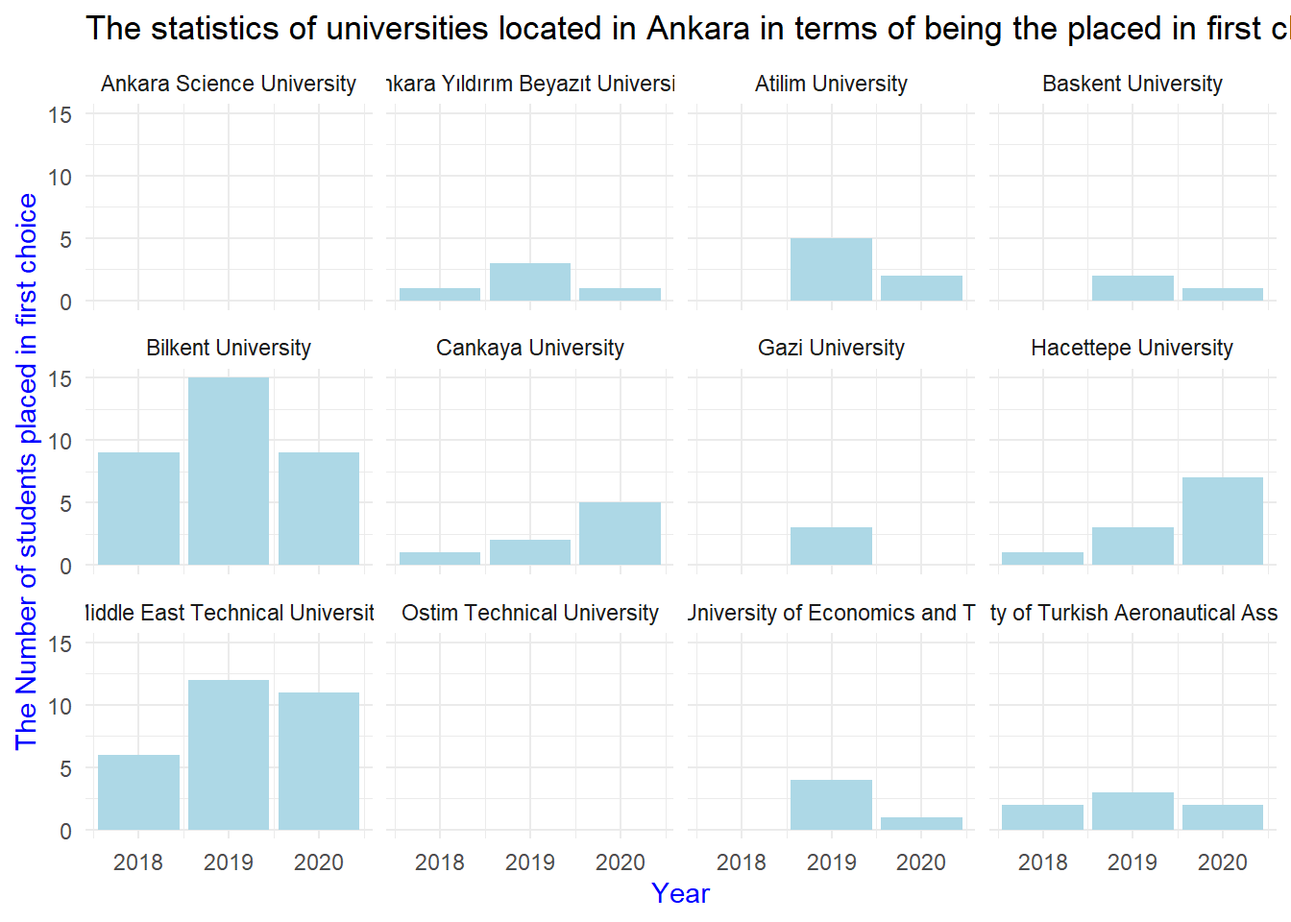
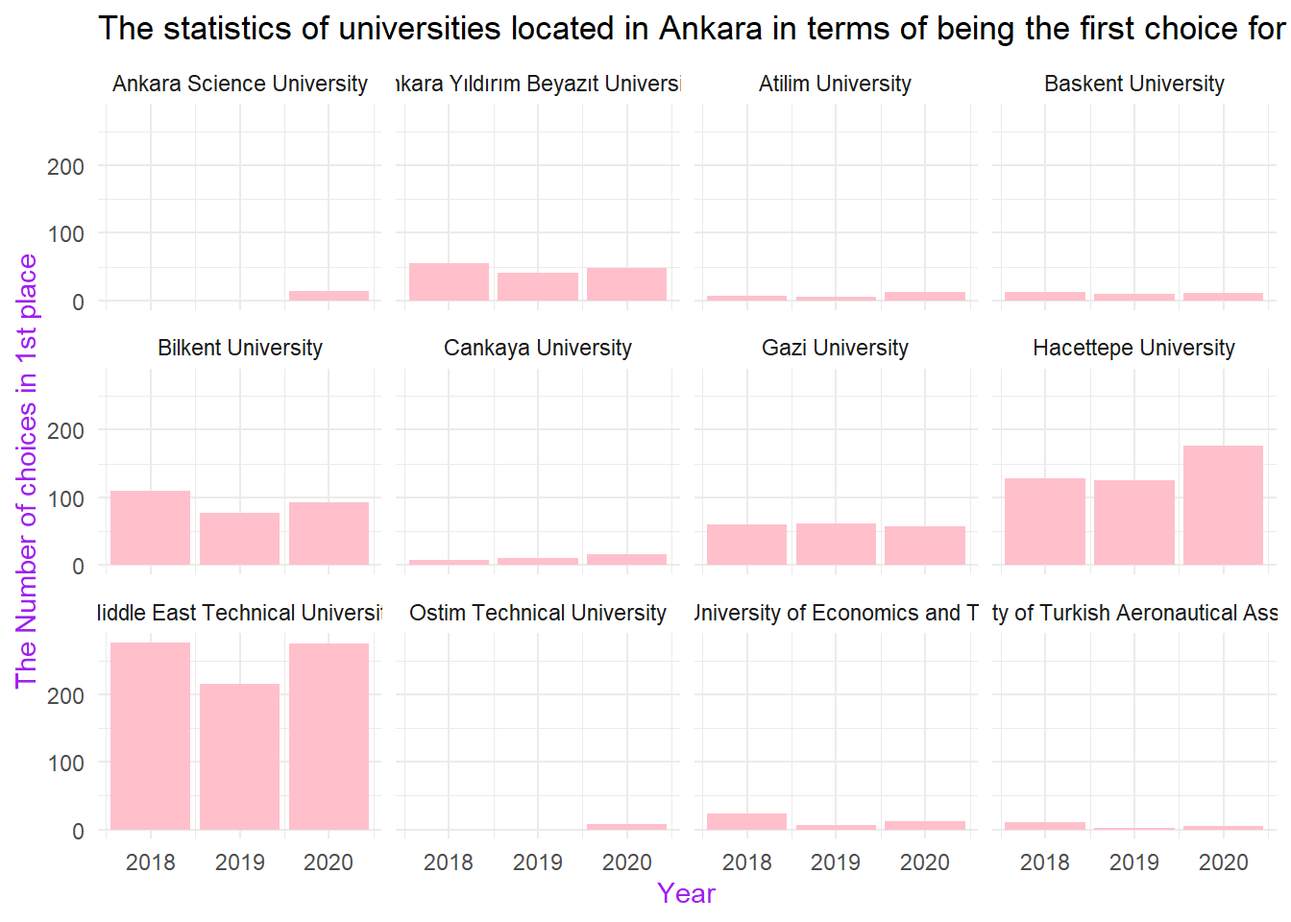
suu

diff --git a/docs/analysis.html b/docs/analysis.html
@@ -180,14 +180,33 @@ pre > code.sourceCode > span > a:first-child::before { text-decoration: underlin
 <pre><code>Warning: package 'ggplot2' was built under R version 4.3.2</code></pre>
 </div>
 <div class="cell-output cell-output-stderr">
+<pre><code>Warning: package 'tidyverse' was built under R version 4.3.2</code></pre>
+</div>
+<div class="cell-output cell-output-stderr">
+<pre><code>Warning: package 'readr' was built under R version 4.3.2</code></pre>
+</div>
+<div class="cell-output cell-output-stderr">
+<pre><code>Warning: package 'stringr' was built under R version 4.3.2</code></pre>
+</div>
+<div class="cell-output cell-output-stderr">
+<pre><code>── Attaching core tidyverse packages ──────────────────────── tidyverse 2.0.0 ──
+✔ forcats   1.0.0     ✔ stringr   1.5.1
+✔ lubridate 1.9.3     ✔ tibble    3.2.1
+✔ purrr     1.0.2     ✔ tidyr     1.3.0
+✔ readr     2.1.4     
+── Conflicts ────────────────────────────────────────── tidyverse_conflicts() ──
+✖ dplyr::filter() masks stats::filter()
+✖ dplyr::lag()    masks stats::lag()
+ℹ Use the conflicted package (&lt;http://conflicted.r-lib.org/&gt;) to force all conflicts to become errors</code></pre>
+</div>
+<div class="cell-output cell-output-stderr">
 <pre><code>Warning: package 'gridExtra' was built under R version 4.3.2</code></pre>
 </div>
 <div class="cell-output cell-output-stderr">
 <pre><code>
-Attaching package: 'gridExtra'</code></pre>
-</div>
-<div class="cell-output cell-output-stderr">
-<pre><code>The following object is masked from 'package:dplyr':
+Attaching package: 'gridExtra'
+
+The following object is masked from 'package:dplyr':
 
     combine</code></pre>
 </div>
@@ -195,117 +214,144 @@ Attaching package: 'gridExtra'</code></pre>
 <div class="cell">
 <details>
 <summary>Show the code</summary>
-<div class="sourceCode cell-code" id="cb7"><pre class="sourceCode r code-with-copy"><code class="sourceCode r"><span id="cb7-1"><a href="#cb7-1" aria-hidden="true" tabindex="-1"></a><span class="co"># The statistics of universities located in Ankara in terms of being the placed in 1st choice for students</span></span>
-<span id="cb7-2"><a href="#cb7-2" aria-hidden="true" tabindex="-1"></a></span>
-<span id="cb7-3"><a href="#cb7-3" aria-hidden="true" tabindex="-1"></a>plot_2 <span class="ot">&lt;-</span> <span class="fu">ggplot</span>(our_data, <span class="fu">aes</span>(<span class="at">x =</span> Year, <span class="at">y =</span> placed_1st)) <span class="sc">+</span> </span>
-<span id="cb7-4"><a href="#cb7-4" aria-hidden="true" tabindex="-1"></a>  <span class="fu">geom_col</span>(<span class="at">fill=</span><span class="st">"lightblue"</span>) <span class="sc">+</span></span>
-<span id="cb7-5"><a href="#cb7-5" aria-hidden="true" tabindex="-1"></a> <span class="fu">labs</span>(<span class="at">x =</span> <span class="st">"Year"</span>,<span class="at">y =</span> <span class="st">"The Number of students placed in first choice"</span>)<span class="sc">+</span></span>
-<span id="cb7-6"><a href="#cb7-6" aria-hidden="true" tabindex="-1"></a>  <span class="fu">ggtitle</span>(<span class="st">"The statistics of universities located in Ankara in terms of being the placed in first choice for students"</span>) <span class="sc">+</span></span>
-<span id="cb7-7"><a href="#cb7-7" aria-hidden="true" tabindex="-1"></a>  <span class="fu">theme_minimal</span>() <span class="sc">+</span></span>
-<span id="cb7-8"><a href="#cb7-8" aria-hidden="true" tabindex="-1"></a>  <span class="fu">theme</span>(<span class="at">axis.title =</span> <span class="fu">element_text</span>(<span class="at">color =</span> <span class="st">"blue"</span>))<span class="sc">+</span></span>
-<span id="cb7-9"><a href="#cb7-9" aria-hidden="true" tabindex="-1"></a>  <span class="fu">facet_wrap</span>(.<span class="sc">~</span> University)</span>
-<span id="cb7-10"><a href="#cb7-10" aria-hidden="true" tabindex="-1"></a><span class="fu">print</span>(plot_2)</span></code><button title="Copy to Clipboard" class="code-copy-button"><i class="bi"></i></button></pre></div>
+<div class="sourceCode cell-code" id="cb10"><pre class="sourceCode r code-with-copy"><code class="sourceCode r"><span id="cb10-1"><a href="#cb10-1" aria-hidden="true" tabindex="-1"></a><span class="co"># The statistics of universities located in Ankara in terms of being the first choice for  students</span></span>
+<span id="cb10-2"><a href="#cb10-2" aria-hidden="true" tabindex="-1"></a>plot_1 <span class="ot">&lt;-</span> <span class="fu">ggplot</span>(our_data, <span class="fu">aes</span>(<span class="at">x =</span> Year, <span class="at">y =</span> choice_1st)) <span class="sc">+</span></span>
+<span id="cb10-3"><a href="#cb10-3" aria-hidden="true" tabindex="-1"></a>  <span class="fu">geom_col</span>(<span class="at">fill=</span><span class="st">"pink"</span>)<span class="sc">+</span></span>
+<span id="cb10-4"><a href="#cb10-4" aria-hidden="true" tabindex="-1"></a>  <span class="fu">labs</span>(<span class="at">x =</span> <span class="st">"Year"</span>,<span class="at">y =</span> <span class="st">"The Number of choices in 1st place"</span>)<span class="sc">+</span></span>
+<span id="cb10-5"><a href="#cb10-5" aria-hidden="true" tabindex="-1"></a>  <span class="fu">ggtitle</span>(<span class="st">"The statistics of universities located in Ankara in terms of being the first choice for students"</span>) <span class="sc">+</span></span>
+<span id="cb10-6"><a href="#cb10-6" aria-hidden="true" tabindex="-1"></a>  <span class="fu">theme_minimal</span>() <span class="sc">+</span></span>
+<span id="cb10-7"><a href="#cb10-7" aria-hidden="true" tabindex="-1"></a>  <span class="fu">theme</span>(<span class="at">axis.title =</span> <span class="fu">element_text</span>(<span class="at">color =</span> <span class="st">"purple"</span>))<span class="sc">+</span></span>
+<span id="cb10-8"><a href="#cb10-8" aria-hidden="true" tabindex="-1"></a>  <span class="fu">facet_wrap</span>(.<span class="sc">~</span> University)</span>
+<span id="cb10-9"><a href="#cb10-9" aria-hidden="true" tabindex="-1"></a><span class="fu">print</span>(plot_1)</span></code><button title="Copy to Clipboard" class="code-copy-button"><i class="bi"></i></button></pre></div>
 </details>
 <div class="cell-output-display">
 <p><img src="analysis_files/figure-html/unnamed-chunk-2-1.png" class="img-fluid" width="672"></p>
 </div>
 </div>
 <div class="cell">
-<div class="sourceCode cell-code" id="cb8"><pre class="sourceCode r code-with-copy"><code class="sourceCode r"><span id="cb8-1"><a href="#cb8-1" aria-hidden="true" tabindex="-1"></a><span class="co">#| code-fold: true</span></span>
-<span id="cb8-2"><a href="#cb8-2" aria-hidden="true" tabindex="-1"></a><span class="co">#| code-summary: "Show the code"</span></span>
-<span id="cb8-3"><a href="#cb8-3" aria-hidden="true" tabindex="-1"></a></span>
-<span id="cb8-4"><a href="#cb8-4" aria-hidden="true" tabindex="-1"></a><span class="co"># The statistics of universities located in Ankara in terms of being the placed in 1st choice for students</span></span>
-<span id="cb8-5"><a href="#cb8-5" aria-hidden="true" tabindex="-1"></a>plot_2 <span class="ot">&lt;-</span> <span class="fu">ggplot</span>(our_data, <span class="fu">aes</span>(<span class="at">x =</span> Year, <span class="at">y =</span> placed_1st)) <span class="sc">+</span> </span>
-<span id="cb8-6"><a href="#cb8-6" aria-hidden="true" tabindex="-1"></a>  <span class="fu">geom_col</span>(<span class="at">fill=</span><span class="st">"lightblue"</span>) <span class="sc">+</span></span>
-<span id="cb8-7"><a href="#cb8-7" aria-hidden="true" tabindex="-1"></a> <span class="fu">labs</span>(<span class="at">x =</span> <span class="st">"Year"</span>,<span class="at">y =</span> <span class="st">"The Number of students placed in first choice"</span>)<span class="sc">+</span></span>
-<span id="cb8-8"><a href="#cb8-8" aria-hidden="true" tabindex="-1"></a>  <span class="fu">ggtitle</span>(<span class="st">"The statistics of universities located in Ankara in terms of being the placed in first choice for students"</span>) <span class="sc">+</span></span>
-<span id="cb8-9"><a href="#cb8-9" aria-hidden="true" tabindex="-1"></a>  <span class="fu">theme_minimal</span>() <span class="sc">+</span></span>
-<span id="cb8-10"><a href="#cb8-10" aria-hidden="true" tabindex="-1"></a>  <span class="fu">theme</span>(<span class="at">axis.title =</span> <span class="fu">element_text</span>(<span class="at">color =</span> <span class="st">"blue"</span>))<span class="sc">+</span></span>
-<span id="cb8-11"><a href="#cb8-11" aria-hidden="true" tabindex="-1"></a>  <span class="fu">facet_wrap</span>(.<span class="sc">~</span> University)</span>
-<span id="cb8-12"><a href="#cb8-12" aria-hidden="true" tabindex="-1"></a></span>
-<span id="cb8-13"><a href="#cb8-13" aria-hidden="true" tabindex="-1"></a><span class="fu">print</span>(plot_2)</span></code><button title="Copy to Clipboard" class="code-copy-button"><i class="bi"></i></button></pre></div>
-<div class="cell-output-display">
-<p><img src="analysis_files/figure-html/unnamed-chunk-3-1.png" class="img-fluid" width="672"></p>
+<details>
+<summary>Show the code</summary>
+<div class="sourceCode cell-code" id="cb11"><pre class="sourceCode r code-with-copy"><code class="sourceCode r"><span id="cb11-1"><a href="#cb11-1" aria-hidden="true" tabindex="-1"></a>avg_first_choices <span class="ot">&lt;-</span> our_data <span class="sc">%&gt;%</span> <span class="fu">group_by</span>(University) <span class="sc">%&gt;%</span> </span>
+<span id="cb11-2"><a href="#cb11-2" aria-hidden="true" tabindex="-1"></a>  <span class="fu">summarise</span>(<span class="at">avg_1st_choices =</span> <span class="fu">mean</span>(choice_1st)) <span class="sc">%&gt;%</span></span>
+<span id="cb11-3"><a href="#cb11-3" aria-hidden="true" tabindex="-1"></a>  <span class="fu">arrange</span>(<span class="fu">desc</span>(avg_1st_choices))</span>
+<span id="cb11-4"><a href="#cb11-4" aria-hidden="true" tabindex="-1"></a><span class="fu">print</span>(avg_first_choices)</span></code><button title="Copy to Clipboard" class="code-copy-button"><i class="bi"></i></button></pre></div>
+</details>
+<div class="cell-output cell-output-stdout">
+<pre><code># A tibble: 12 × 2
+   University                                      avg_1st_choices
+   &lt;chr&gt;                                                     &lt;dbl&gt;
+ 1 Middle East Technical University                         256.  
+ 2 Hacettepe University                                     143.  
+ 3 Bilkent University                                        93.3 
+ 4 Gazi University                                           59.3 
+ 5 Ankara Yıldırım Beyazıt University                        48   
+ 6 Ankara Science University                                 14   
+ 7 Tobb Etu University of Economics and Technology           14   
+ 8 Cankaya University                                        11.3 
+ 9 Baskent University                                        11   
+10 Atilim University                                          8.33
+11 Ostim Technical University                                 8   
+12 University of Turkish Aeronautical Association             6.33</code></pre>
 </div>
 </div>
 <div class="cell">
-<details>
-<summary>Show the code</summary>
-<div class="sourceCode cell-code" id="cb9"><pre class="sourceCode r code-with-copy"><code class="sourceCode r"><span id="cb9-1"><a href="#cb9-1" aria-hidden="true" tabindex="-1"></a><span class="co"># Placement rate for students' first choices</span></span>
-<span id="cb9-2"><a href="#cb9-2" aria-hidden="true" tabindex="-1"></a></span>
-<span id="cb9-3"><a href="#cb9-3" aria-hidden="true" tabindex="-1"></a></span>
-<span id="cb9-4"><a href="#cb9-4" aria-hidden="true" tabindex="-1"></a>departments <span class="ot">&lt;-</span> <span class="fu">c</span>(<span class="st">"Industrial Engineering(English)"</span>,<span class="st">"Industrial Engineering (English) (Scholarship)"</span>)</span>
-<span id="cb9-5"><a href="#cb9-5" aria-hidden="true" tabindex="-1"></a>placment_rate_data <span class="ot">&lt;-</span> our_data <span class="sc">%&gt;%</span> <span class="fu">filter</span>(Department <span class="sc">%in%</span> departments) <span class="sc">%&gt;%</span> <span class="fu">mutate</span>(<span class="at">placement_rate =</span> placed_1st<span class="sc">/</span>choice_1st) <span class="sc">%&gt;%</span> <span class="fu">select</span>(Year, University, placement_rate)</span>
-<span id="cb9-6"><a href="#cb9-6" aria-hidden="true" tabindex="-1"></a></span>
-<span id="cb9-7"><a href="#cb9-7" aria-hidden="true" tabindex="-1"></a>plot_3 <span class="ot">&lt;-</span> <span class="fu">ggplot</span>(<span class="fu">na.omit</span>(placment_rate_data), <span class="fu">aes</span>(<span class="at">x =</span> <span class="fu">as.factor</span>(Year), <span class="at">y =</span> placement_rate)) <span class="sc">+</span></span>
-<span id="cb9-8"><a href="#cb9-8" aria-hidden="true" tabindex="-1"></a>  <span class="fu">geom_col</span>(<span class="at">fill=</span><span class="st">"lightgreen"</span>) <span class="sc">+</span></span>
-<span id="cb9-9"><a href="#cb9-9" aria-hidden="true" tabindex="-1"></a>  <span class="fu">labs</span>(<span class="at">x =</span> <span class="st">"Year"</span>,<span class="at">y =</span> <span class="st">"Placement Rate"</span>)<span class="sc">+</span></span>
-<span id="cb9-10"><a href="#cb9-10" aria-hidden="true" tabindex="-1"></a>  <span class="fu">ggtitle</span>(<span class="st">"Placement rate for students' first choices over year"</span>) <span class="sc">+</span></span>
-<span id="cb9-11"><a href="#cb9-11" aria-hidden="true" tabindex="-1"></a>  <span class="fu">theme_minimal</span>() <span class="sc">+</span></span>
-<span id="cb9-12"><a href="#cb9-12" aria-hidden="true" tabindex="-1"></a>  <span class="fu">theme</span>(<span class="at">axis.title =</span> <span class="fu">element_text</span>(<span class="at">color =</span> <span class="st">"green"</span>))<span class="sc">+</span></span>
-<span id="cb9-13"><a href="#cb9-13" aria-hidden="true" tabindex="-1"></a>  <span class="fu">facet_wrap</span>(.<span class="sc">~</span> University)</span>
-<span id="cb9-14"><a href="#cb9-14" aria-hidden="true" tabindex="-1"></a></span>
-<span id="cb9-15"><a href="#cb9-15" aria-hidden="true" tabindex="-1"></a><span class="fu">print</span>(plot_3)</span></code><button title="Copy to Clipboard" class="code-copy-button"><i class="bi"></i></button></pre></div>
-</details>
+<div class="sourceCode cell-code" id="cb13"><pre class="sourceCode r code-with-copy"><code class="sourceCode r"><span id="cb13-1"><a href="#cb13-1" aria-hidden="true" tabindex="-1"></a><span class="co">#| code-fold: true</span></span>
+<span id="cb13-2"><a href="#cb13-2" aria-hidden="true" tabindex="-1"></a><span class="co">#| code-summary: "Show the code"</span></span>
+<span id="cb13-3"><a href="#cb13-3" aria-hidden="true" tabindex="-1"></a></span>
+<span id="cb13-4"><a href="#cb13-4" aria-hidden="true" tabindex="-1"></a><span class="co"># The statistics of universities located in Ankara in terms of being the placed in 1st choice for students</span></span>
+<span id="cb13-5"><a href="#cb13-5" aria-hidden="true" tabindex="-1"></a>plot_2 <span class="ot">&lt;-</span> <span class="fu">ggplot</span>(our_data, <span class="fu">aes</span>(<span class="at">x =</span> Year, <span class="at">y =</span> placed_1st)) <span class="sc">+</span> </span>
+<span id="cb13-6"><a href="#cb13-6" aria-hidden="true" tabindex="-1"></a>  <span class="fu">geom_col</span>(<span class="at">fill=</span><span class="st">"lightblue"</span>) <span class="sc">+</span></span>
+<span id="cb13-7"><a href="#cb13-7" aria-hidden="true" tabindex="-1"></a> <span class="fu">labs</span>(<span class="at">x =</span> <span class="st">"Year"</span>,<span class="at">y =</span> <span class="st">"The Number of students placed in first choice"</span>)<span class="sc">+</span></span>
+<span id="cb13-8"><a href="#cb13-8" aria-hidden="true" tabindex="-1"></a>  <span class="fu">ggtitle</span>(<span class="st">"The statistics of universities located in Ankara in terms of being the placed in first choice for students"</span>) <span class="sc">+</span></span>
+<span id="cb13-9"><a href="#cb13-9" aria-hidden="true" tabindex="-1"></a>  <span class="fu">theme_minimal</span>() <span class="sc">+</span></span>
+<span id="cb13-10"><a href="#cb13-10" aria-hidden="true" tabindex="-1"></a>  <span class="fu">theme</span>(<span class="at">axis.title =</span> <span class="fu">element_text</span>(<span class="at">color =</span> <span class="st">"blue"</span>))<span class="sc">+</span></span>
+<span id="cb13-11"><a href="#cb13-11" aria-hidden="true" tabindex="-1"></a>  <span class="fu">facet_wrap</span>(.<span class="sc">~</span> University)</span>
+<span id="cb13-12"><a href="#cb13-12" aria-hidden="true" tabindex="-1"></a></span>
+<span id="cb13-13"><a href="#cb13-13" aria-hidden="true" tabindex="-1"></a><span class="fu">print</span>(plot_2)</span></code><button title="Copy to Clipboard" class="code-copy-button"><i class="bi"></i></button></pre></div>
 <div class="cell-output-display">
 <p><img src="analysis_files/figure-html/unnamed-chunk-4-1.png" class="img-fluid" width="672"></p>
 </div>
 </div>
 <div class="cell">
-<div class="sourceCode cell-code" id="cb10"><pre class="sourceCode r code-with-copy"><code class="sourceCode r"><span id="cb10-1"><a href="#cb10-1" aria-hidden="true" tabindex="-1"></a><span class="co">#| code-fold: true</span></span>
-<span id="cb10-2"><a href="#cb10-2" aria-hidden="true" tabindex="-1"></a><span class="co">#| code-summary: "Show the code"</span></span>
-<span id="cb10-3"><a href="#cb10-3" aria-hidden="true" tabindex="-1"></a></span>
-<span id="cb10-4"><a href="#cb10-4" aria-hidden="true" tabindex="-1"></a><span class="co"># Hacettepe University Industrial Engineering data in 2018</span></span>
-<span id="cb10-5"><a href="#cb10-5" aria-hidden="true" tabindex="-1"></a></span>
-<span id="cb10-6"><a href="#cb10-6" aria-hidden="true" tabindex="-1"></a>hacettepe_data1 <span class="ot">&lt;-</span> our_data <span class="sc">%&gt;%</span> <span class="fu">filter</span>(University <span class="sc">==</span> <span class="st">"Hacettepe University"</span>,Year <span class="sc">==</span> <span class="dv">2018</span>)</span>
-<span id="cb10-7"><a href="#cb10-7" aria-hidden="true" tabindex="-1"></a></span>
-<span id="cb10-8"><a href="#cb10-8" aria-hidden="true" tabindex="-1"></a></span>
-<span id="cb10-9"><a href="#cb10-9" aria-hidden="true" tabindex="-1"></a>df_long1 <span class="ot">&lt;-</span> <span class="fu">pivot_longer</span>(hacettepe_data1, <span class="at">cols =</span> <span class="fu">starts_with</span>(<span class="st">"choice"</span>),</span>
-<span id="cb10-10"><a href="#cb10-10" aria-hidden="true" tabindex="-1"></a>                        <span class="at">names_to =</span> <span class="st">"Choice"</span>, <span class="at">values_to =</span> <span class="st">"Value"</span>)</span>
-<span id="cb10-11"><a href="#cb10-11" aria-hidden="true" tabindex="-1"></a></span>
-<span id="cb10-12"><a href="#cb10-12" aria-hidden="true" tabindex="-1"></a>plot_4 <span class="ot">&lt;-</span> <span class="fu">ggplot</span>(df_long1, <span class="fu">aes</span>(<span class="at">x=</span> Choice, <span class="at">y =</span> Value))<span class="sc">+</span></span>
-<span id="cb10-13"><a href="#cb10-13" aria-hidden="true" tabindex="-1"></a>  <span class="fu">geom_col</span>(<span class="at">fill=</span><span class="st">"pink"</span>)<span class="sc">+</span></span>
-<span id="cb10-14"><a href="#cb10-14" aria-hidden="true" tabindex="-1"></a>  <span class="fu">labs</span>(<span class="at">x =</span> <span class="st">"xnd chocie"</span>,<span class="at">y =</span> <span class="st">"The Number of choices "</span>)<span class="sc">+</span></span>
-<span id="cb10-15"><a href="#cb10-15" aria-hidden="true" tabindex="-1"></a>  <span class="fu">ggtitle</span>(<span class="st">"2018"</span>) <span class="sc">+</span></span>
-<span id="cb10-16"><a href="#cb10-16" aria-hidden="true" tabindex="-1"></a>  <span class="fu">theme_minimal</span>() <span class="sc">+</span></span>
-<span id="cb10-17"><a href="#cb10-17" aria-hidden="true" tabindex="-1"></a>  <span class="fu">theme</span>(<span class="at">axis.title =</span> <span class="fu">element_text</span>(<span class="at">color =</span> <span class="st">"purple"</span>))<span class="sc">+</span></span>
-<span id="cb10-18"><a href="#cb10-18" aria-hidden="true" tabindex="-1"></a>  <span class="fu">theme</span>(<span class="at">axis.text.x =</span> <span class="fu">element_text</span>(<span class="at">angle =</span> <span class="dv">90</span>, <span class="at">hjust =</span> <span class="dv">1</span>))</span>
-<span id="cb10-19"><a href="#cb10-19" aria-hidden="true" tabindex="-1"></a></span>
-<span id="cb10-20"><a href="#cb10-20" aria-hidden="true" tabindex="-1"></a><span class="co"># Hacettepe University Industrial Engineering data in 2019</span></span>
-<span id="cb10-21"><a href="#cb10-21" aria-hidden="true" tabindex="-1"></a></span>
-<span id="cb10-22"><a href="#cb10-22" aria-hidden="true" tabindex="-1"></a>hacettepe_data2 <span class="ot">&lt;-</span> our_data <span class="sc">%&gt;%</span> <span class="fu">filter</span>(University <span class="sc">==</span> <span class="st">"Hacettepe University"</span>,Year <span class="sc">==</span> <span class="dv">2019</span>)</span>
-<span id="cb10-23"><a href="#cb10-23" aria-hidden="true" tabindex="-1"></a></span>
-<span id="cb10-24"><a href="#cb10-24" aria-hidden="true" tabindex="-1"></a>df_long2 <span class="ot">&lt;-</span> <span class="fu">pivot_longer</span>(hacettepe_data2, <span class="at">cols =</span> <span class="fu">starts_with</span>(<span class="st">"choice"</span>),</span>
-<span id="cb10-25"><a href="#cb10-25" aria-hidden="true" tabindex="-1"></a>                        <span class="at">names_to =</span> <span class="st">"Choice"</span>, <span class="at">values_to =</span> <span class="st">"Value"</span>)</span>
-<span id="cb10-26"><a href="#cb10-26" aria-hidden="true" tabindex="-1"></a></span>
-<span id="cb10-27"><a href="#cb10-27" aria-hidden="true" tabindex="-1"></a>plot_5 <span class="ot">&lt;-</span> <span class="fu">ggplot</span>(df_long2, <span class="fu">aes</span>(<span class="at">x=</span> Choice, <span class="at">y =</span> Value))<span class="sc">+</span></span>
-<span id="cb10-28"><a href="#cb10-28" aria-hidden="true" tabindex="-1"></a>   <span class="fu">geom_col</span>(<span class="at">fill=</span><span class="st">"lightblue"</span>)<span class="sc">+</span></span>
-<span id="cb10-29"><a href="#cb10-29" aria-hidden="true" tabindex="-1"></a>  <span class="fu">labs</span>(<span class="at">x =</span> <span class="st">"xnd chocie"</span>,<span class="at">y =</span> <span class="st">"The Number of choices"</span>)<span class="sc">+</span></span>
-<span id="cb10-30"><a href="#cb10-30" aria-hidden="true" tabindex="-1"></a>  <span class="fu">ggtitle</span>(<span class="st">"2019"</span>) <span class="sc">+</span></span>
-<span id="cb10-31"><a href="#cb10-31" aria-hidden="true" tabindex="-1"></a>  <span class="fu">theme_minimal</span>() <span class="sc">+</span></span>
-<span id="cb10-32"><a href="#cb10-32" aria-hidden="true" tabindex="-1"></a>  <span class="fu">theme</span>(<span class="at">axis.title =</span> <span class="fu">element_text</span>(<span class="at">color =</span> <span class="st">"blue"</span>))<span class="sc">+</span></span>
-<span id="cb10-33"><a href="#cb10-33" aria-hidden="true" tabindex="-1"></a>  <span class="fu">theme</span>(<span class="at">axis.text.x =</span> <span class="fu">element_text</span>(<span class="at">angle =</span> <span class="dv">90</span>, <span class="at">hjust =</span> <span class="dv">1</span>))</span>
-<span id="cb10-34"><a href="#cb10-34" aria-hidden="true" tabindex="-1"></a></span>
-<span id="cb10-35"><a href="#cb10-35" aria-hidden="true" tabindex="-1"></a></span>
-<span id="cb10-36"><a href="#cb10-36" aria-hidden="true" tabindex="-1"></a><span class="co"># Hacettepe University Industrial Engineering data in 2020</span></span>
-<span id="cb10-37"><a href="#cb10-37" aria-hidden="true" tabindex="-1"></a>hacettepe_data3 <span class="ot">&lt;-</span> our_data <span class="sc">%&gt;%</span> <span class="fu">filter</span>(University <span class="sc">==</span> <span class="st">"Hacettepe University"</span>,Year <span class="sc">==</span> <span class="dv">2020</span>)</span>
-<span id="cb10-38"><a href="#cb10-38" aria-hidden="true" tabindex="-1"></a></span>
-<span id="cb10-39"><a href="#cb10-39" aria-hidden="true" tabindex="-1"></a></span>
-<span id="cb10-40"><a href="#cb10-40" aria-hidden="true" tabindex="-1"></a>df_long3 <span class="ot">&lt;-</span> <span class="fu">pivot_longer</span>(hacettepe_data3, <span class="at">cols =</span> <span class="fu">starts_with</span>(<span class="st">"choice"</span>),</span>
-<span id="cb10-41"><a href="#cb10-41" aria-hidden="true" tabindex="-1"></a>                         <span class="at">names_to =</span> <span class="st">"Choice"</span>, <span class="at">values_to =</span> <span class="st">"Value"</span>)</span>
-<span id="cb10-42"><a href="#cb10-42" aria-hidden="true" tabindex="-1"></a></span>
-<span id="cb10-43"><a href="#cb10-43" aria-hidden="true" tabindex="-1"></a>plot_6 <span class="ot">&lt;-</span> <span class="fu">ggplot</span>(df_long3, <span class="fu">aes</span>(<span class="at">x=</span> Choice, <span class="at">y =</span> Value)) <span class="sc">+</span> </span>
-<span id="cb10-44"><a href="#cb10-44" aria-hidden="true" tabindex="-1"></a>  <span class="fu">geom_col</span>(<span class="at">fill=</span><span class="st">"lightgreen"</span>)<span class="sc">+</span></span>
-<span id="cb10-45"><a href="#cb10-45" aria-hidden="true" tabindex="-1"></a>  <span class="fu">labs</span>(<span class="at">x =</span> <span class="st">"xnd chocie"</span>,<span class="at">y =</span> <span class="st">"The Number of choices"</span>)<span class="sc">+</span></span>
-<span id="cb10-46"><a href="#cb10-46" aria-hidden="true" tabindex="-1"></a>  <span class="fu">ggtitle</span>(<span class="st">"2020"</span>) <span class="sc">+</span></span>
-<span id="cb10-47"><a href="#cb10-47" aria-hidden="true" tabindex="-1"></a>  <span class="fu">theme_minimal</span>() <span class="sc">+</span></span>
-<span id="cb10-48"><a href="#cb10-48" aria-hidden="true" tabindex="-1"></a>  <span class="fu">theme</span>(<span class="at">axis.title =</span> <span class="fu">element_text</span>(<span class="at">color =</span> <span class="st">"green"</span>))<span class="sc">+</span></span>
-<span id="cb10-49"><a href="#cb10-49" aria-hidden="true" tabindex="-1"></a>  <span class="fu">theme</span>(<span class="at">axis.text.x =</span> <span class="fu">element_text</span>(<span class="at">angle =</span> <span class="dv">90</span>, <span class="at">hjust =</span> <span class="dv">1</span>))</span>
-<span id="cb10-50"><a href="#cb10-50" aria-hidden="true" tabindex="-1"></a></span>
-<span id="cb10-51"><a href="#cb10-51" aria-hidden="true" tabindex="-1"></a></span>
-<span id="cb10-52"><a href="#cb10-52" aria-hidden="true" tabindex="-1"></a><span class="fu">print</span>(<span class="fu">grid.arrange</span> (plot_4, plot_5, plot_6, <span class="at">ncol =</span> <span class="dv">3</span>))</span></code><button title="Copy to Clipboard" class="code-copy-button"><i class="bi"></i></button></pre></div>
+<details>
+<summary>Show the code</summary>
+<div class="sourceCode cell-code" id="cb14"><pre class="sourceCode r code-with-copy"><code class="sourceCode r"><span id="cb14-1"><a href="#cb14-1" aria-hidden="true" tabindex="-1"></a><span class="co"># Placement rate for students' first choices</span></span>
+<span id="cb14-2"><a href="#cb14-2" aria-hidden="true" tabindex="-1"></a></span>
+<span id="cb14-3"><a href="#cb14-3" aria-hidden="true" tabindex="-1"></a></span>
+<span id="cb14-4"><a href="#cb14-4" aria-hidden="true" tabindex="-1"></a>placment_rate_data <span class="ot">&lt;-</span> our_data <span class="sc">%&gt;%</span> <span class="fu">mutate</span>(<span class="at">placement_rate =</span> placed_1st<span class="sc">/</span>choice_1st) <span class="sc">%&gt;%</span> <span class="fu">select</span>(Year, University, placement_rate)</span>
+<span id="cb14-5"><a href="#cb14-5" aria-hidden="true" tabindex="-1"></a></span>
+<span id="cb14-6"><a href="#cb14-6" aria-hidden="true" tabindex="-1"></a>plot_3 <span class="ot">&lt;-</span> <span class="fu">ggplot</span>(<span class="fu">na.omit</span>(placment_rate_data), <span class="fu">aes</span>(<span class="at">x =</span> <span class="fu">as.factor</span>(Year), <span class="at">y =</span> placement_rate)) <span class="sc">+</span></span>
+<span id="cb14-7"><a href="#cb14-7" aria-hidden="true" tabindex="-1"></a>  <span class="fu">geom_col</span>(<span class="at">fill=</span><span class="st">"lightgreen"</span>) <span class="sc">+</span></span>
+<span id="cb14-8"><a href="#cb14-8" aria-hidden="true" tabindex="-1"></a>  <span class="fu">labs</span>(<span class="at">x =</span> <span class="st">"Year"</span>,<span class="at">y =</span> <span class="st">"Placement Rate"</span>)<span class="sc">+</span></span>
+<span id="cb14-9"><a href="#cb14-9" aria-hidden="true" tabindex="-1"></a>  <span class="fu">ggtitle</span>(<span class="st">"Placement rate for students' first choices over year"</span>) <span class="sc">+</span></span>
+<span id="cb14-10"><a href="#cb14-10" aria-hidden="true" tabindex="-1"></a>  <span class="fu">theme_minimal</span>() <span class="sc">+</span></span>
+<span id="cb14-11"><a href="#cb14-11" aria-hidden="true" tabindex="-1"></a>  <span class="fu">theme</span>(<span class="at">axis.title =</span> <span class="fu">element_text</span>(<span class="at">color =</span> <span class="st">"green"</span>))<span class="sc">+</span></span>
+<span id="cb14-12"><a href="#cb14-12" aria-hidden="true" tabindex="-1"></a>  <span class="fu">facet_wrap</span>(.<span class="sc">~</span> University)</span>
+<span id="cb14-13"><a href="#cb14-13" aria-hidden="true" tabindex="-1"></a></span>
+<span id="cb14-14"><a href="#cb14-14" aria-hidden="true" tabindex="-1"></a><span class="fu">print</span>(plot_3)</span></code><button title="Copy to Clipboard" class="code-copy-button"><i class="bi"></i></button></pre></div>
+</details>
 <div class="cell-output-display">
 <p><img src="analysis_files/figure-html/unnamed-chunk-5-1.png" class="img-fluid" width="672"></p>
+</div>
+</div>
+<div class="cell">
+<div class="sourceCode cell-code" id="cb15"><pre class="sourceCode r code-with-copy"><code class="sourceCode r"><span id="cb15-1"><a href="#cb15-1" aria-hidden="true" tabindex="-1"></a><span class="co">#| code-fold: true</span></span>
+<span id="cb15-2"><a href="#cb15-2" aria-hidden="true" tabindex="-1"></a><span class="co">#| code-summary: "Show the code"</span></span>
+<span id="cb15-3"><a href="#cb15-3" aria-hidden="true" tabindex="-1"></a></span>
+<span id="cb15-4"><a href="#cb15-4" aria-hidden="true" tabindex="-1"></a><span class="co"># Hacettepe University Industrial Engineering data in 2018</span></span>
+<span id="cb15-5"><a href="#cb15-5" aria-hidden="true" tabindex="-1"></a></span>
+<span id="cb15-6"><a href="#cb15-6" aria-hidden="true" tabindex="-1"></a>hacettepe_data1 <span class="ot">&lt;-</span> our_data <span class="sc">%&gt;%</span> <span class="fu">filter</span>(University <span class="sc">==</span> <span class="st">"Hacettepe University"</span>,Year <span class="sc">==</span> <span class="dv">2018</span>)</span>
+<span id="cb15-7"><a href="#cb15-7" aria-hidden="true" tabindex="-1"></a></span>
+<span id="cb15-8"><a href="#cb15-8" aria-hidden="true" tabindex="-1"></a></span>
+<span id="cb15-9"><a href="#cb15-9" aria-hidden="true" tabindex="-1"></a>df_long1 <span class="ot">&lt;-</span> <span class="fu">pivot_longer</span>(hacettepe_data1, <span class="at">cols =</span> <span class="fu">starts_with</span>(<span class="st">"choice"</span>),</span>
+<span id="cb15-10"><a href="#cb15-10" aria-hidden="true" tabindex="-1"></a>                        <span class="at">names_to =</span> <span class="st">"Choice"</span>, <span class="at">values_to =</span> <span class="st">"Value"</span>)</span>
+<span id="cb15-11"><a href="#cb15-11" aria-hidden="true" tabindex="-1"></a></span>
+<span id="cb15-12"><a href="#cb15-12" aria-hidden="true" tabindex="-1"></a>plot_4 <span class="ot">&lt;-</span> <span class="fu">ggplot</span>(df_long1, <span class="fu">aes</span>(<span class="at">x=</span> Choice, <span class="at">y =</span> Value))<span class="sc">+</span></span>
+<span id="cb15-13"><a href="#cb15-13" aria-hidden="true" tabindex="-1"></a>  <span class="fu">geom_col</span>(<span class="at">fill=</span><span class="st">"pink"</span>)<span class="sc">+</span></span>
+<span id="cb15-14"><a href="#cb15-14" aria-hidden="true" tabindex="-1"></a>  <span class="fu">labs</span>(<span class="at">x =</span> <span class="st">"xnd chocie"</span>,<span class="at">y =</span> <span class="st">"The Number of choices "</span>)<span class="sc">+</span></span>
+<span id="cb15-15"><a href="#cb15-15" aria-hidden="true" tabindex="-1"></a>  <span class="fu">ggtitle</span>(<span class="st">"2018"</span>) <span class="sc">+</span></span>
+<span id="cb15-16"><a href="#cb15-16" aria-hidden="true" tabindex="-1"></a>  <span class="fu">theme_minimal</span>() <span class="sc">+</span></span>
+<span id="cb15-17"><a href="#cb15-17" aria-hidden="true" tabindex="-1"></a>  <span class="fu">theme</span>(<span class="at">axis.title =</span> <span class="fu">element_text</span>(<span class="at">color =</span> <span class="st">"purple"</span>))<span class="sc">+</span></span>
+<span id="cb15-18"><a href="#cb15-18" aria-hidden="true" tabindex="-1"></a>  <span class="fu">theme</span>(<span class="at">axis.text.x =</span> <span class="fu">element_text</span>(<span class="at">angle =</span> <span class="dv">90</span>, <span class="at">hjust =</span> <span class="dv">1</span>))<span class="sc">+</span></span>
+<span id="cb15-19"><a href="#cb15-19" aria-hidden="true" tabindex="-1"></a>  <span class="fu">ylim</span>(<span class="fu">c</span>(<span class="dv">0</span>, <span class="dv">220</span>))</span>
+<span id="cb15-20"><a href="#cb15-20" aria-hidden="true" tabindex="-1"></a></span>
+<span id="cb15-21"><a href="#cb15-21" aria-hidden="true" tabindex="-1"></a><span class="co"># Hacettepe University Industrial Engineering data in 2019</span></span>
+<span id="cb15-22"><a href="#cb15-22" aria-hidden="true" tabindex="-1"></a></span>
+<span id="cb15-23"><a href="#cb15-23" aria-hidden="true" tabindex="-1"></a>hacettepe_data2 <span class="ot">&lt;-</span> our_data <span class="sc">%&gt;%</span> <span class="fu">filter</span>(University <span class="sc">==</span> <span class="st">"Hacettepe University"</span>,Year <span class="sc">==</span> <span class="dv">2019</span>)</span>
+<span id="cb15-24"><a href="#cb15-24" aria-hidden="true" tabindex="-1"></a></span>
+<span id="cb15-25"><a href="#cb15-25" aria-hidden="true" tabindex="-1"></a>df_long2 <span class="ot">&lt;-</span> <span class="fu">pivot_longer</span>(hacettepe_data2, <span class="at">cols =</span> <span class="fu">starts_with</span>(<span class="st">"choice"</span>),</span>
+<span id="cb15-26"><a href="#cb15-26" aria-hidden="true" tabindex="-1"></a>                        <span class="at">names_to =</span> <span class="st">"Choice"</span>, <span class="at">values_to =</span> <span class="st">"Value"</span>)</span>
+<span id="cb15-27"><a href="#cb15-27" aria-hidden="true" tabindex="-1"></a></span>
+<span id="cb15-28"><a href="#cb15-28" aria-hidden="true" tabindex="-1"></a>plot_5 <span class="ot">&lt;-</span> <span class="fu">ggplot</span>(df_long2, <span class="fu">aes</span>(<span class="at">x=</span> Choice, <span class="at">y =</span> Value))<span class="sc">+</span></span>
+<span id="cb15-29"><a href="#cb15-29" aria-hidden="true" tabindex="-1"></a>   <span class="fu">geom_col</span>(<span class="at">fill=</span><span class="st">"lightblue"</span>)<span class="sc">+</span></span>
+<span id="cb15-30"><a href="#cb15-30" aria-hidden="true" tabindex="-1"></a>  <span class="fu">labs</span>(<span class="at">x =</span> <span class="st">"xnd chocie"</span>,<span class="at">y =</span> <span class="st">"The Number of choices"</span>)<span class="sc">+</span></span>
+<span id="cb15-31"><a href="#cb15-31" aria-hidden="true" tabindex="-1"></a>  <span class="fu">ggtitle</span>(<span class="st">"2019"</span>) <span class="sc">+</span></span>
+<span id="cb15-32"><a href="#cb15-32" aria-hidden="true" tabindex="-1"></a>  <span class="fu">theme_minimal</span>() <span class="sc">+</span></span>
+<span id="cb15-33"><a href="#cb15-33" aria-hidden="true" tabindex="-1"></a>  <span class="fu">theme</span>(<span class="at">axis.title =</span> <span class="fu">element_text</span>(<span class="at">color =</span> <span class="st">"blue"</span>))<span class="sc">+</span></span>
+<span id="cb15-34"><a href="#cb15-34" aria-hidden="true" tabindex="-1"></a>  <span class="fu">theme</span>(<span class="at">axis.text.x =</span> <span class="fu">element_text</span>(<span class="at">angle =</span> <span class="dv">90</span>, <span class="at">hjust =</span> <span class="dv">1</span>))<span class="sc">+</span></span>
+<span id="cb15-35"><a href="#cb15-35" aria-hidden="true" tabindex="-1"></a>  <span class="fu">ylim</span>(<span class="fu">c</span>(<span class="dv">0</span>, <span class="dv">220</span>))</span>
+<span id="cb15-36"><a href="#cb15-36" aria-hidden="true" tabindex="-1"></a></span>
+<span id="cb15-37"><a href="#cb15-37" aria-hidden="true" tabindex="-1"></a></span>
+<span id="cb15-38"><a href="#cb15-38" aria-hidden="true" tabindex="-1"></a><span class="co"># Hacettepe University Industrial Engineering data in 2020</span></span>
+<span id="cb15-39"><a href="#cb15-39" aria-hidden="true" tabindex="-1"></a>hacettepe_data3 <span class="ot">&lt;-</span> our_data <span class="sc">%&gt;%</span> <span class="fu">filter</span>(University <span class="sc">==</span> <span class="st">"Hacettepe University"</span>,Year <span class="sc">==</span> <span class="dv">2020</span>)</span>
+<span id="cb15-40"><a href="#cb15-40" aria-hidden="true" tabindex="-1"></a></span>
+<span id="cb15-41"><a href="#cb15-41" aria-hidden="true" tabindex="-1"></a></span>
+<span id="cb15-42"><a href="#cb15-42" aria-hidden="true" tabindex="-1"></a>df_long3 <span class="ot">&lt;-</span> <span class="fu">pivot_longer</span>(hacettepe_data3, <span class="at">cols =</span> <span class="fu">starts_with</span>(<span class="st">"choice"</span>),</span>
+<span id="cb15-43"><a href="#cb15-43" aria-hidden="true" tabindex="-1"></a>                         <span class="at">names_to =</span> <span class="st">"Choice"</span>, <span class="at">values_to =</span> <span class="st">"Value"</span>)</span>
+<span id="cb15-44"><a href="#cb15-44" aria-hidden="true" tabindex="-1"></a></span>
+<span id="cb15-45"><a href="#cb15-45" aria-hidden="true" tabindex="-1"></a>plot_6 <span class="ot">&lt;-</span> <span class="fu">ggplot</span>(df_long3, <span class="fu">aes</span>(<span class="at">x=</span> Choice, <span class="at">y =</span> Value)) <span class="sc">+</span> </span>
+<span id="cb15-46"><a href="#cb15-46" aria-hidden="true" tabindex="-1"></a>  <span class="fu">geom_col</span>(<span class="at">fill=</span><span class="st">"lightgreen"</span>)<span class="sc">+</span></span>
+<span id="cb15-47"><a href="#cb15-47" aria-hidden="true" tabindex="-1"></a>  <span class="fu">labs</span>(<span class="at">x =</span> <span class="st">"xnd chocie"</span>,<span class="at">y =</span> <span class="st">"The Number of choices"</span>)<span class="sc">+</span></span>
+<span id="cb15-48"><a href="#cb15-48" aria-hidden="true" tabindex="-1"></a>  <span class="fu">ggtitle</span>(<span class="st">"2020"</span>) <span class="sc">+</span></span>
+<span id="cb15-49"><a href="#cb15-49" aria-hidden="true" tabindex="-1"></a>  <span class="fu">theme_minimal</span>() <span class="sc">+</span></span>
+<span id="cb15-50"><a href="#cb15-50" aria-hidden="true" tabindex="-1"></a>  <span class="fu">theme</span>(<span class="at">axis.title =</span> <span class="fu">element_text</span>(<span class="at">color =</span> <span class="st">"green"</span>))<span class="sc">+</span></span>
+<span id="cb15-51"><a href="#cb15-51" aria-hidden="true" tabindex="-1"></a>  <span class="fu">theme</span>(<span class="at">axis.text.x =</span> <span class="fu">element_text</span>(<span class="at">angle =</span> <span class="dv">90</span>, <span class="at">hjust =</span> <span class="dv">1</span>))<span class="sc">+</span></span>
+<span id="cb15-52"><a href="#cb15-52" aria-hidden="true" tabindex="-1"></a>  <span class="fu">ylim</span>(<span class="fu">c</span>(<span class="dv">0</span>, <span class="dv">220</span>))</span>
+<span id="cb15-53"><a href="#cb15-53" aria-hidden="true" tabindex="-1"></a></span>
+<span id="cb15-54"><a href="#cb15-54" aria-hidden="true" tabindex="-1"></a></span>
+<span id="cb15-55"><a href="#cb15-55" aria-hidden="true" tabindex="-1"></a><span class="fu">print</span>(<span class="fu">grid.arrange</span> (plot_4, plot_5, plot_6, <span class="at">ncol =</span> <span class="dv">3</span>))</span></code><button title="Copy to Clipboard" class="code-copy-button"><i class="bi"></i></button></pre></div>
+<div class="cell-output-display">
+<p><img src="analysis_files/figure-html/unnamed-chunk-6-1.png" class="img-fluid" width="672"></p>
 </div>
 <div class="cell-output cell-output-stdout">
 <pre><code>TableGrob (1 x 3) "arrange": 3 grobs
